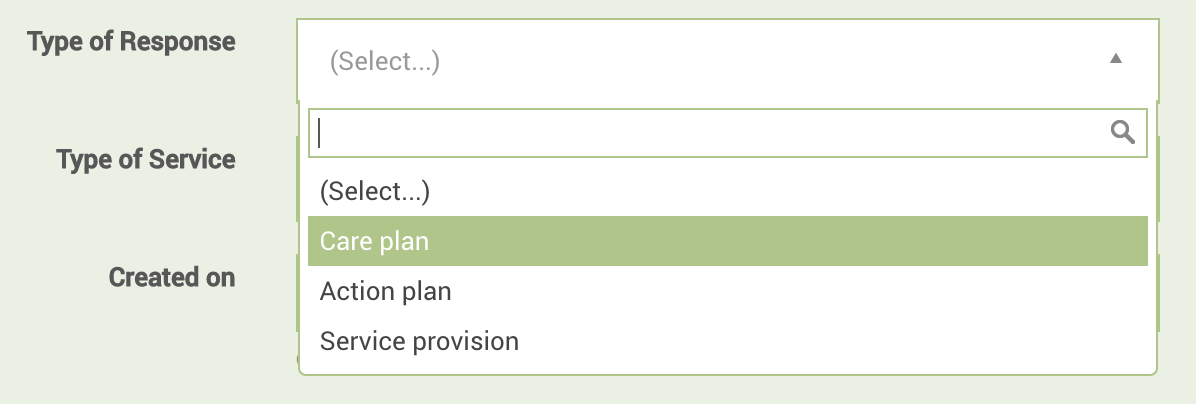
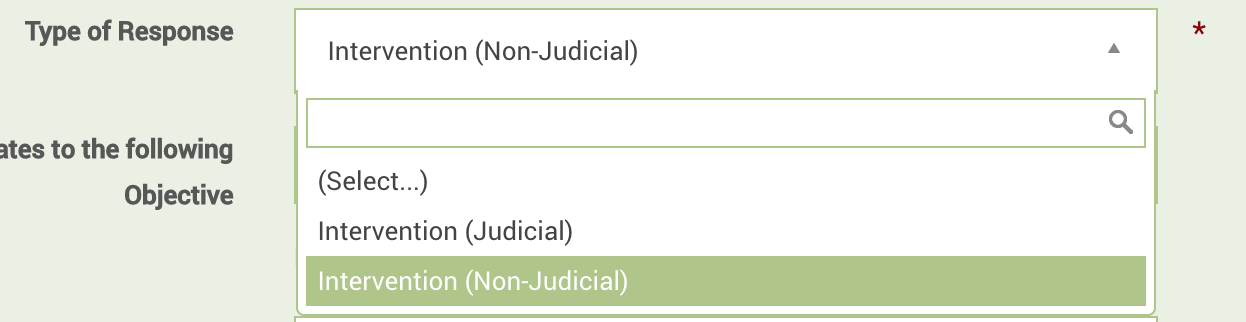
LB-165: Initial Lebanon-specific changes. Need to make fixes to original 1.5 changes.

diff --git a/UsersGuide.md b/UsersGuide.md
@@ -87,7 +87,7 @@ It is important to understand where the due dates for these tasks come from, as 
 
 ### Assessments
 
-Assessments become due based on the "Date Assessment Due" field (or any field with the id "assessment_due_date") on the **Basic Identity** form. This field is not visible by default in Primero, meaning that, unless your system is configured to use the field, you will not see Assessments as tasks in the Tasks view. Furthermore, an assessment is considered incomplete if the "Assessment requested on" field (or any field with the id "assessment_requested_on") on the **Assessment** form has not been filled out.
+Assessments become due based on the "Date Assessment Due" field (or any field with the id "assessment_due_date") on the **Identification / Registration** form. This field is not visible by default in Primero, meaning that, unless your system is configured to use the field, you will not see Assessments as tasks in the Tasks view. [Lebanon: Please note that this field is visible in the Lebanon configuration.] Furthermore, an assessment is considered incomplete if the "Assessment requested on" field (or any field with the id "assessment_requested_on") on the **Assessment** form has not been filled out.
 
 ![](img/image113.png)
 
@@ -483,6 +483,8 @@ Based on the deployment, you may have the ability to relinquish a case that has 
 
 A core part of the case management process is responding to the needs of a case. Primero manages these through the **Services** form and through the provision of services (sometimes also referred to as "responses").
 
+[Lebanon: Please take note that this form in the Lebanon configuration is called "Intervention Services," though it serves the same purpose.]
+
 
 ## Services Form
 
@@ -490,7 +492,7 @@ To add a service to a case, simply go into the **Services** form on the case edi
 
 ![](img/image96.png)
 
-When selecting a "Type of Response", remember that this will help determine the workflow status of your case. So, for instance, if you select "Action Plan," your case status will also be "Action Plan" so long as you do not add any other services or close the case.
+When selecting a "Type of Response", remember that this will help determine the workflow status of your case. So, for instance, if you select "Intervention (Judicial)," your case status will also be "Intervention (Judicial)" so long as you do not add any other services or close the case.
 
 ![](img/image97.png)
 
@@ -499,6 +501,8 @@ Another important field to fill in is the type of service that will be rendered 
 ![](img/image98.png)
 
 Choosing a timeframe for the service will help generate reminders in you or your manager's dashboard when the service is coming due or overdue. This timeframe, depending on your configuration, will take one of two forms: the time period after which the service will be due (e.g. three hours, one day); or the actual due date for the service (e.g. November 30, 2017). Both these forms are displayed in the pictures below. For more information on these reminders, check out the Dashboards section.
+
+[Lebanon: Please note that the Lebanon configuration uses the second option, a due date (labeled "By When").]
 
 ![](img/image101.png)
 
@@ -518,21 +522,19 @@ Once you have saved the case with this new service, and have been redirected bac
 
 ## The Workflow Status Bar
 
-The **Workflow Status** allows the user to quickly understand where in the case management process the current case stands. This value can be seen at the top of the case forms, in the **Workflow Status Bar**. By default, Primero is not set to display this bar, but the system can be configured to change this. (See the **Primero Administration and Configuration Guide**.)
+The **Workflow Status** allows the user to quickly understand where in the case management process the current case stands. This value can be seen at the top of the case forms, in the **Workflow Status Bar**. By default, Primero is not set to display this bar, but the system can be configured to change this. (See the **Primero Administration and Configuration Guide**.) [Lebanon: Note that the **Workflow Status Bar** is set to display by default in the Lebanon configuration.]
 
 ![](img/image107.png)
 
-Above is the default **Workflow Status Bar**. Here you see the following statuses: "New," "Case Plan," "Care plan," "Action plan," "Service provision," "Service Implemented," and "Closed." The first of these statuses, "New," is applied when a case is first created. The second, "Case Plan," is applied after the "New" status, when the field "Date Case Plan Initiated" (or any other field with the id "date_case_plan") is filled out by the user.
+Above is the default **Workflow Status Bar** for Lebanon. Here you see the following statuses: "New," "Assessment," "Case Plan," "Intervention (Judicial)," "Intervention (Non-Judicial)," "Closed." The first of these statuses, "New," is applied when a case is first created. The second, "Assessment," is applied when the "Assessment requested on" field (or any other field with the id "assessment_requested_on") is filled out by the user. The next status, "Case Plan," is applied after the "New" and "Assessment" statuses, when the field "Date Case Plan Initiated" (or any other field with the id "date_case_plan") is filled out by the user.
 
-The next three statuses, "Care plan," "Action plan," and "Service provision," correspond to the three potential "Response Type" values for a service. A case is given one of these statuses if the case is still open, and still has non-implemented services planned for it. The "Response Type" value for the most-recently-added, non-implemented entry in the **Services** form will be the new workflow status.
+The next two statuses, "Intervention (Judicial)" and "Intervention (Non-Judicial)," correspond to the two potential "Response Type" values for a service. A case is given one of these statuses if the case is still open, and still has non-implemented services planned for it. The "Response Type" value for the most-recently-added, non-implemented entry in the **Services** form will be the new workflow status.
 
 ![](img/image108.png)
 
-For example, let's suppose I have a case with three services: one created on June 1 with a type of 'Action plan' which is *implemented*; one created on June 20 with a type of 'Care plan' which is *not implemented*; and one created on June 25 with a type of 'Service provision' which is *implemented*. In this situation, the case's workflow status would be 'Care plan', since this is the Response Type of the most-recently-added, non-implemented entry in the **Services** form.
+For example, let's suppose I have a case with three services: one created on June 1 with a response type of 'Intervention (Judicial)' which is *implemented*; one created on June 20 with a type of 'Intervention (Non-Judicial)' which is *not implemented*; and one created on June 25 with a type of 'Intervention (Judicial)' which is *implemented*. In this situation, the case's workflow status would be 'Intervention (Non-Judicial)', since this is the Response Type of the most-recently-added, non-implemented entry in the **Services** form.
 
-These statuses will vary depending on the options in your configuration for the "Response Type" lookup. So, for instance, if your "Response Type" options are "Remote Contact" and "In-Person," you will see these two as potential workflow statuses, rather than the three that we see here.
-
-The next status, "Service provision," is deprecated, and should be left out of any configuration. The "Service Implemented" status, meanwhile, applies when all of the entries in the **Services** form have been implemented. One of these services is considered implemented if the "Service Implemented" field (or any field with the id "service_implemented") on the service subform is set to "Implemented."
+These statuses will vary depending on the options in your configuration for the "Response Type" lookup. So, for instance, if your "Response Type" options are "Remote Contact" and "In-Person," you will see these two as potential workflow statuses, rather than the two that we see here.
 
 Finally, the "Closed" status applies when a case's case status has been set to "Closed."
 
